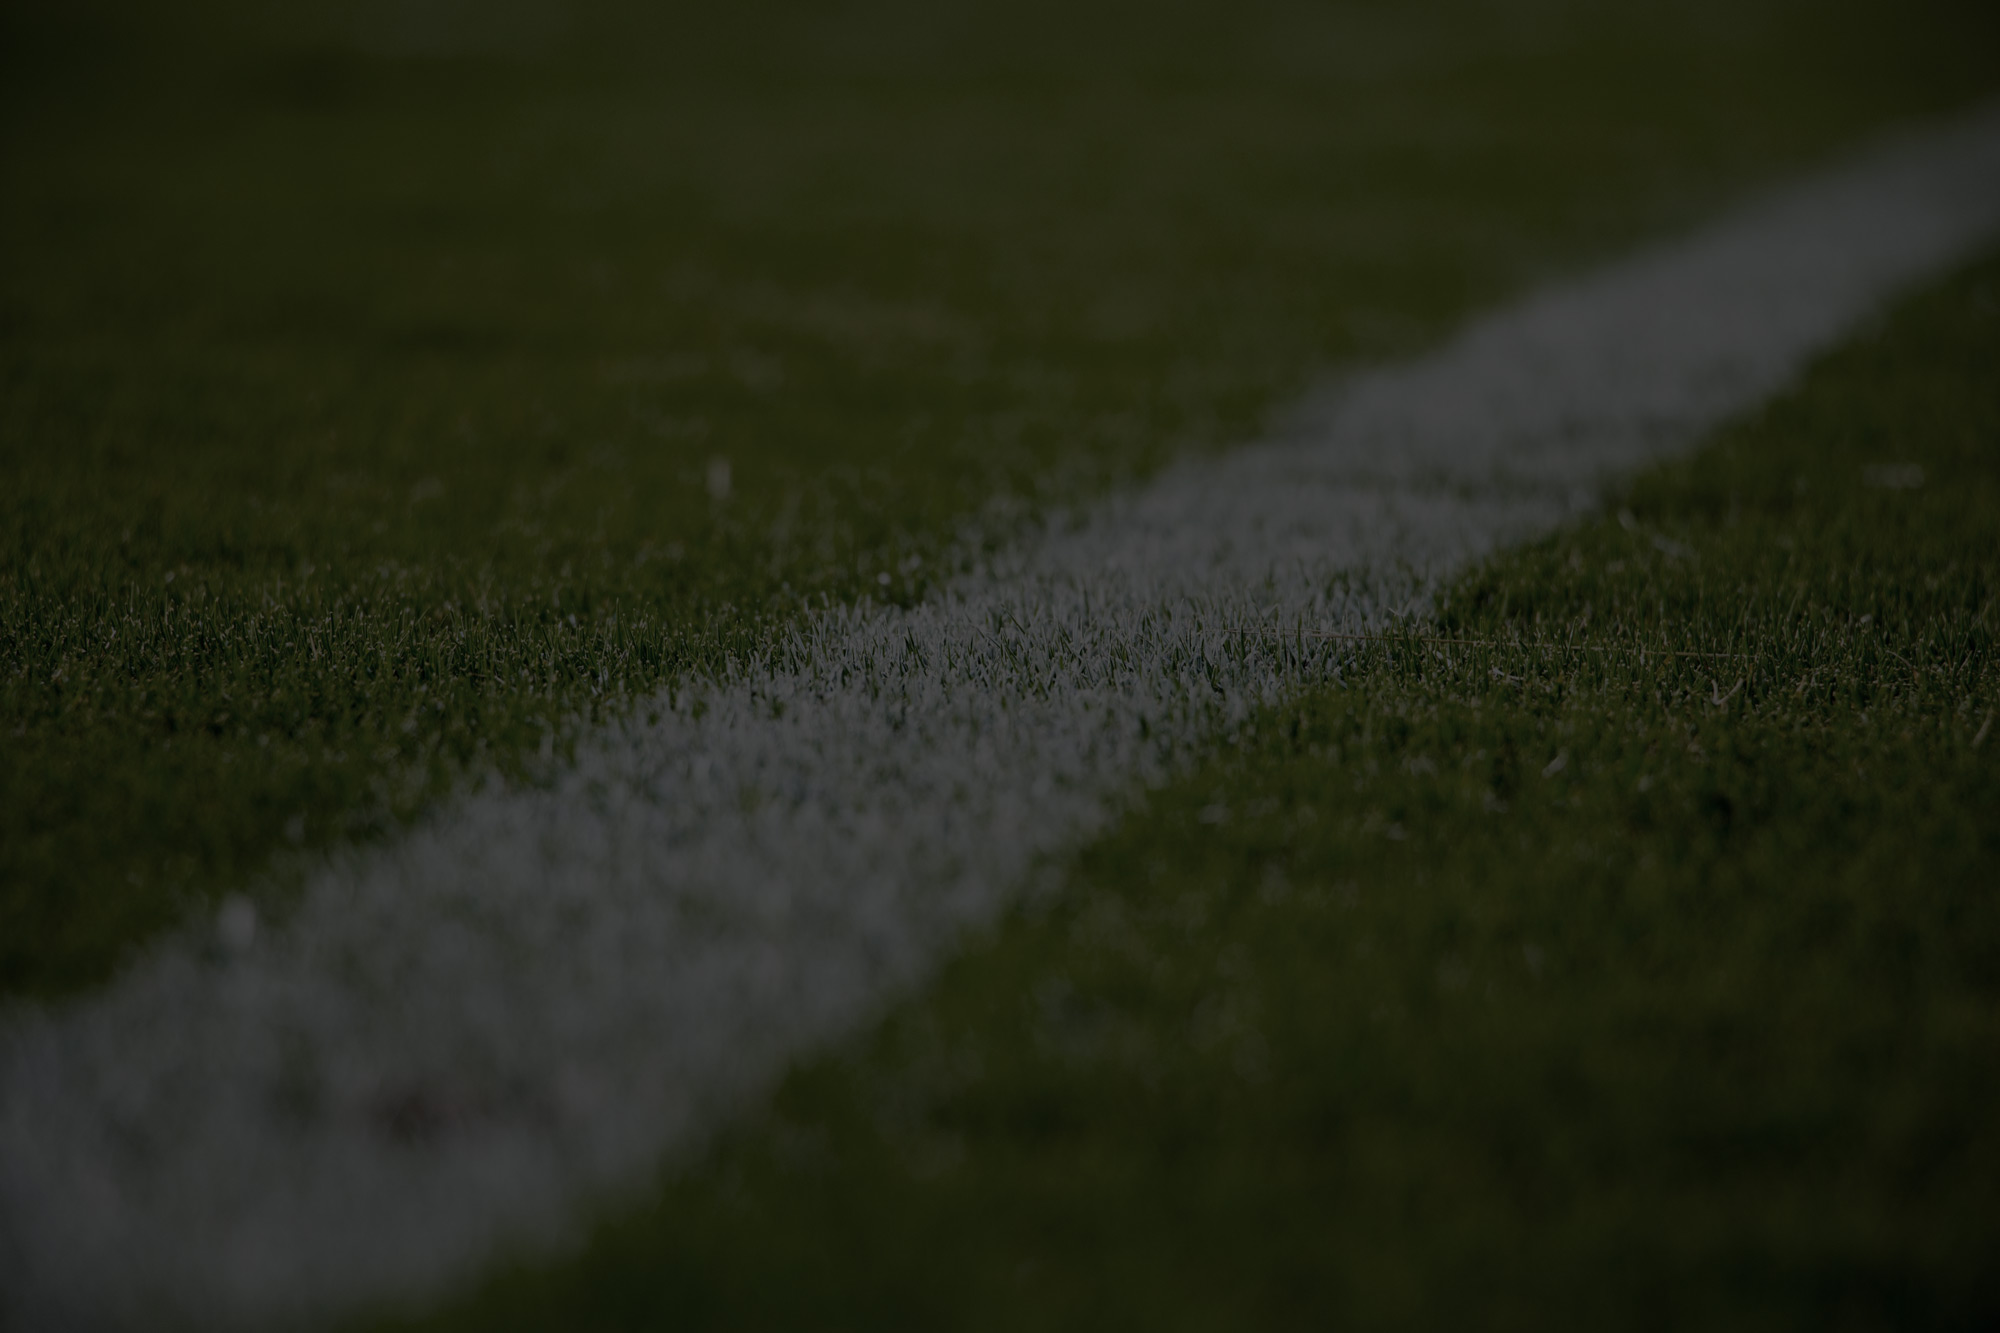
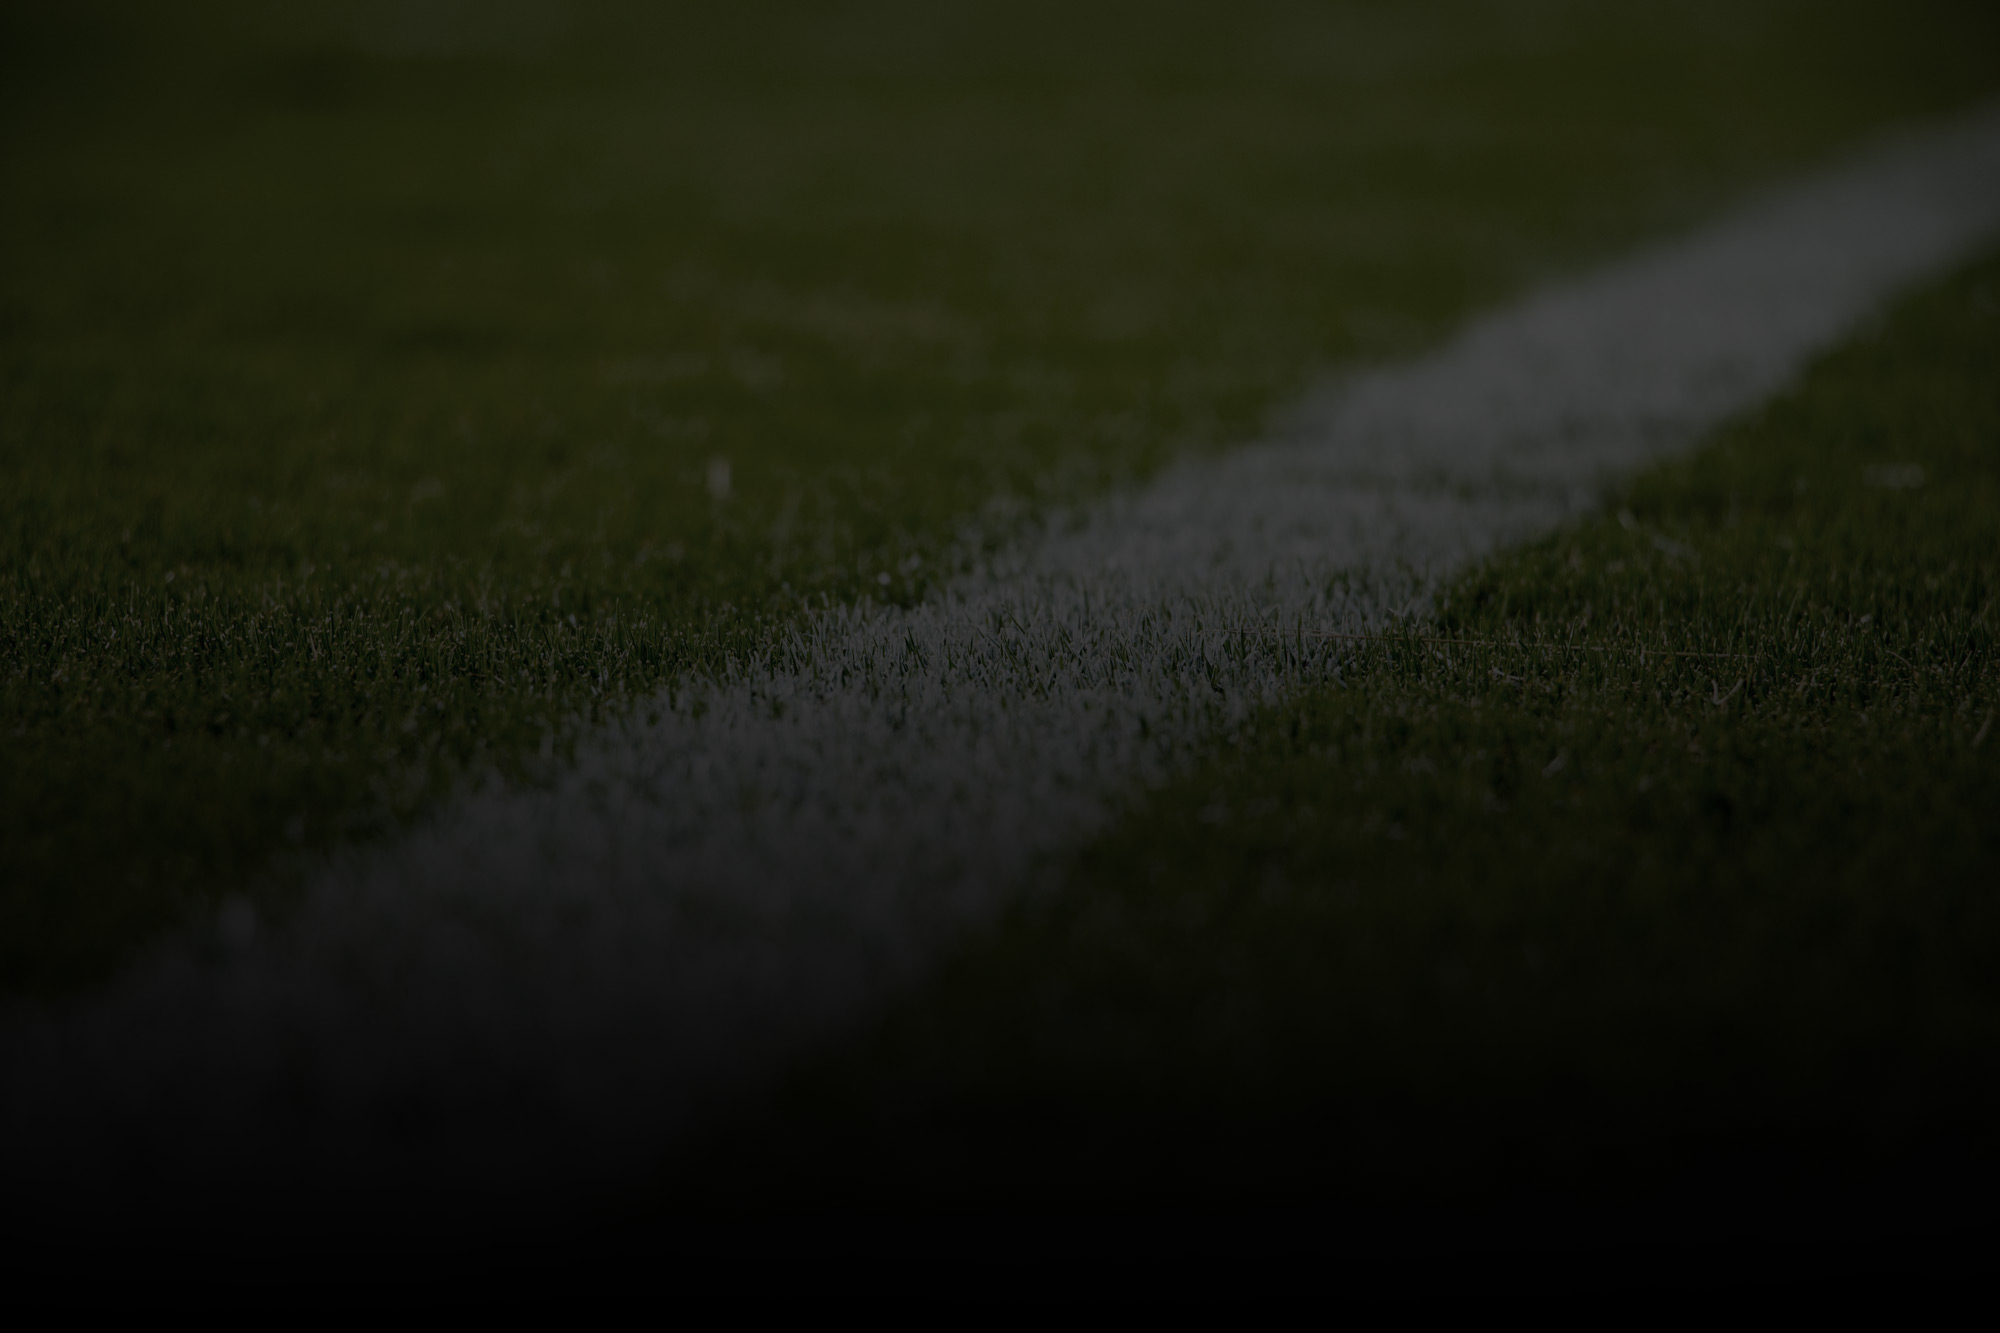
updated bg and js to resize bg after shopify button has loaded

Changed region(s): [[0.0, 0.5536, 0.899, 1.0], [0.62, 0.6459, 0.651, 0.6767]]

diff --git a/src/scripts/index.js b/src/scripts/index.js
@@ -176,7 +176,7 @@ import "../styles/index.scss";
     console.log(bg);
     bg.style.top = '0px';
     bg.style.right = '0px';
-    bg.style.bottom = '-100px';
+    bg.style.bottom = '0px';
     bg.style.left = '0px';
   }
 })();
